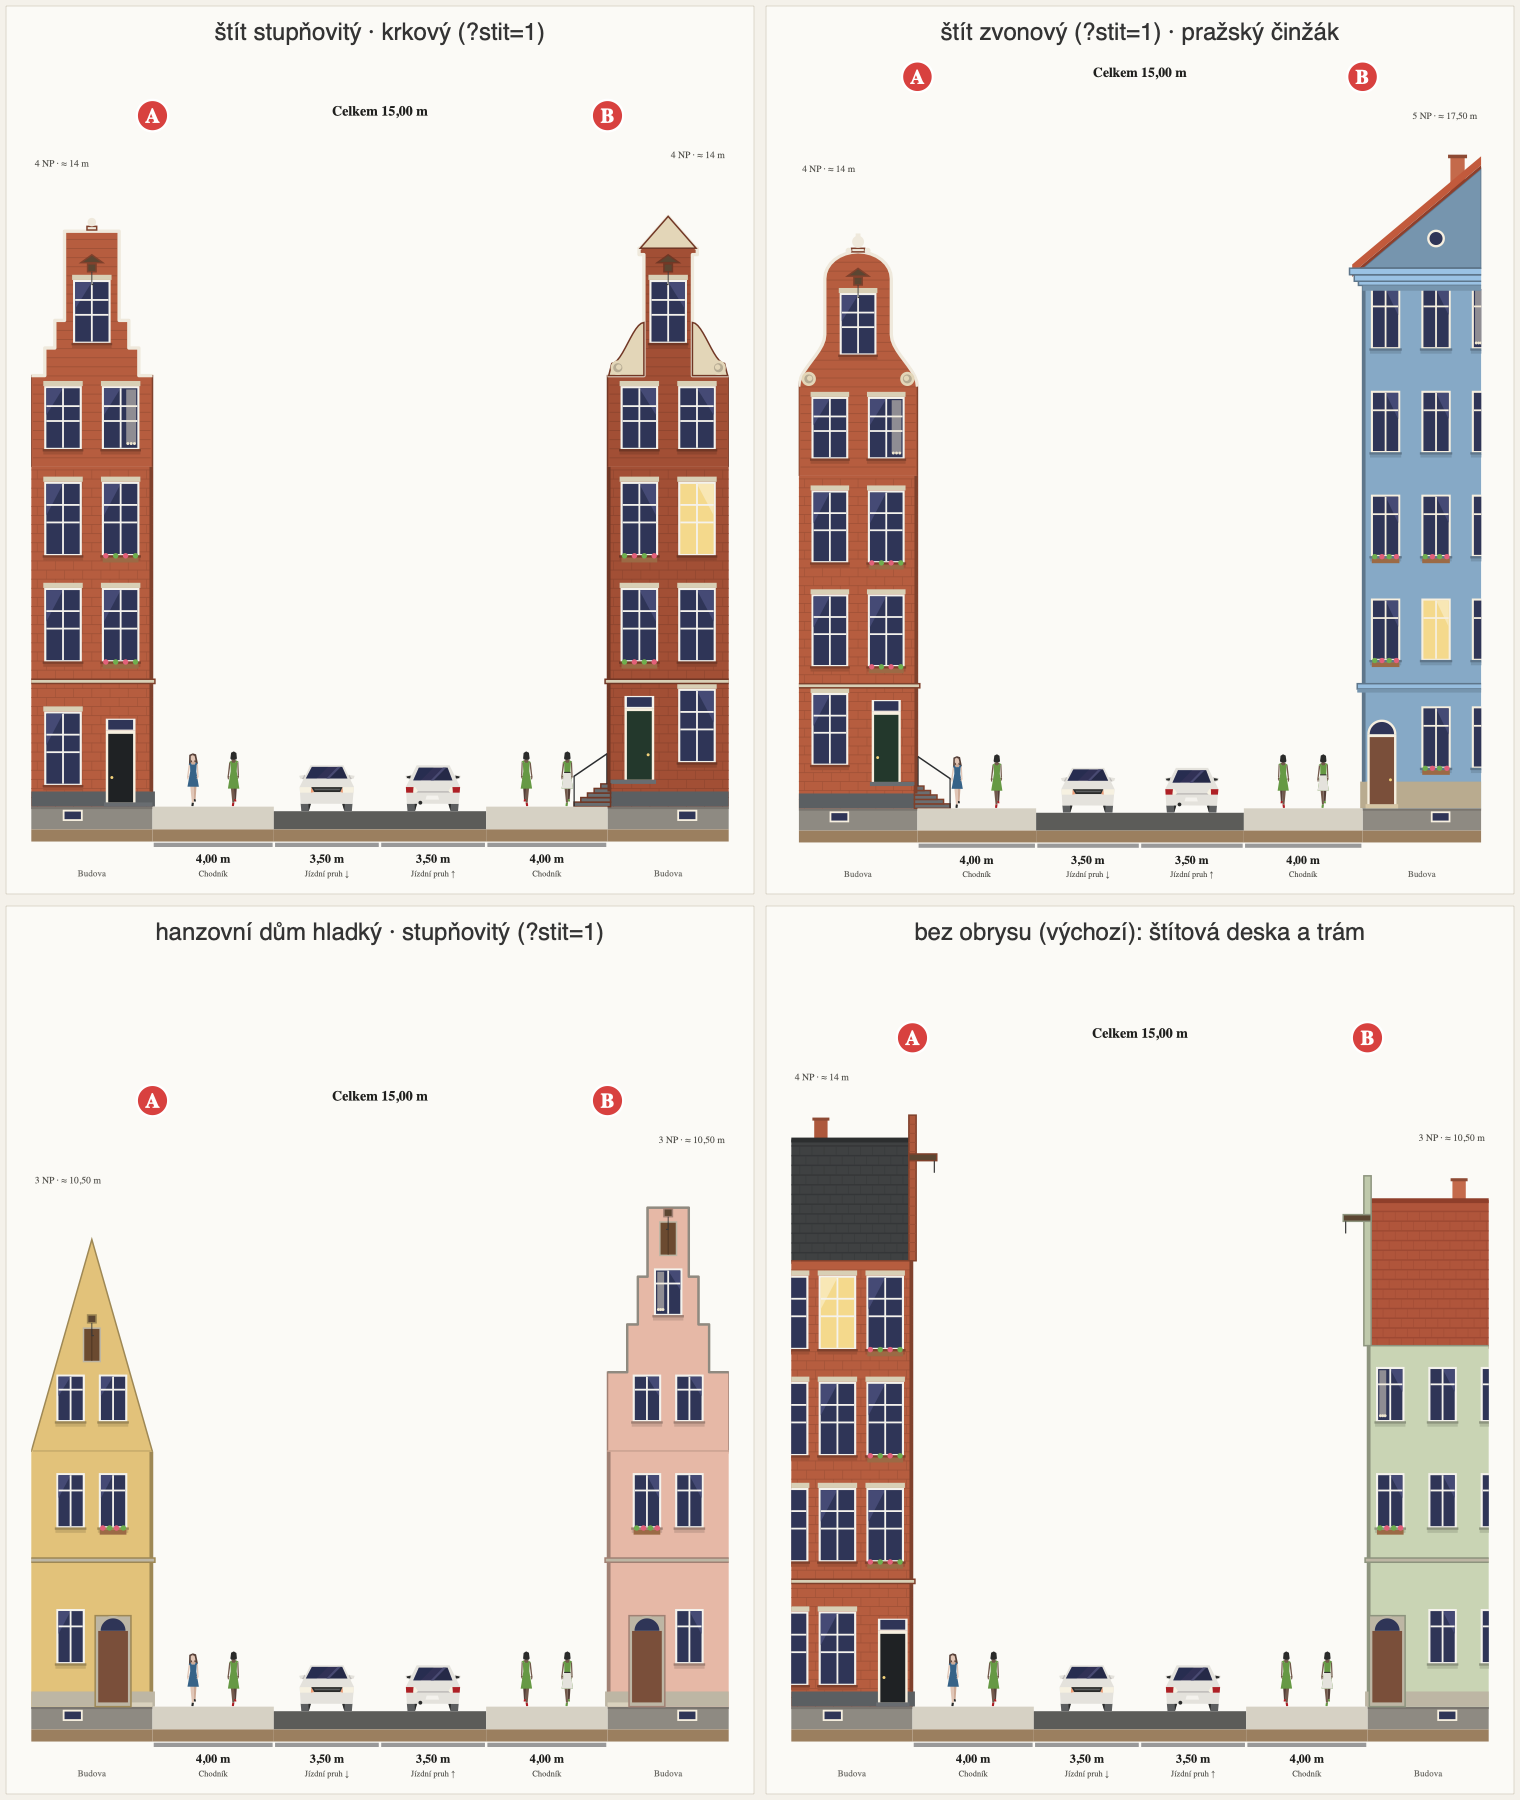
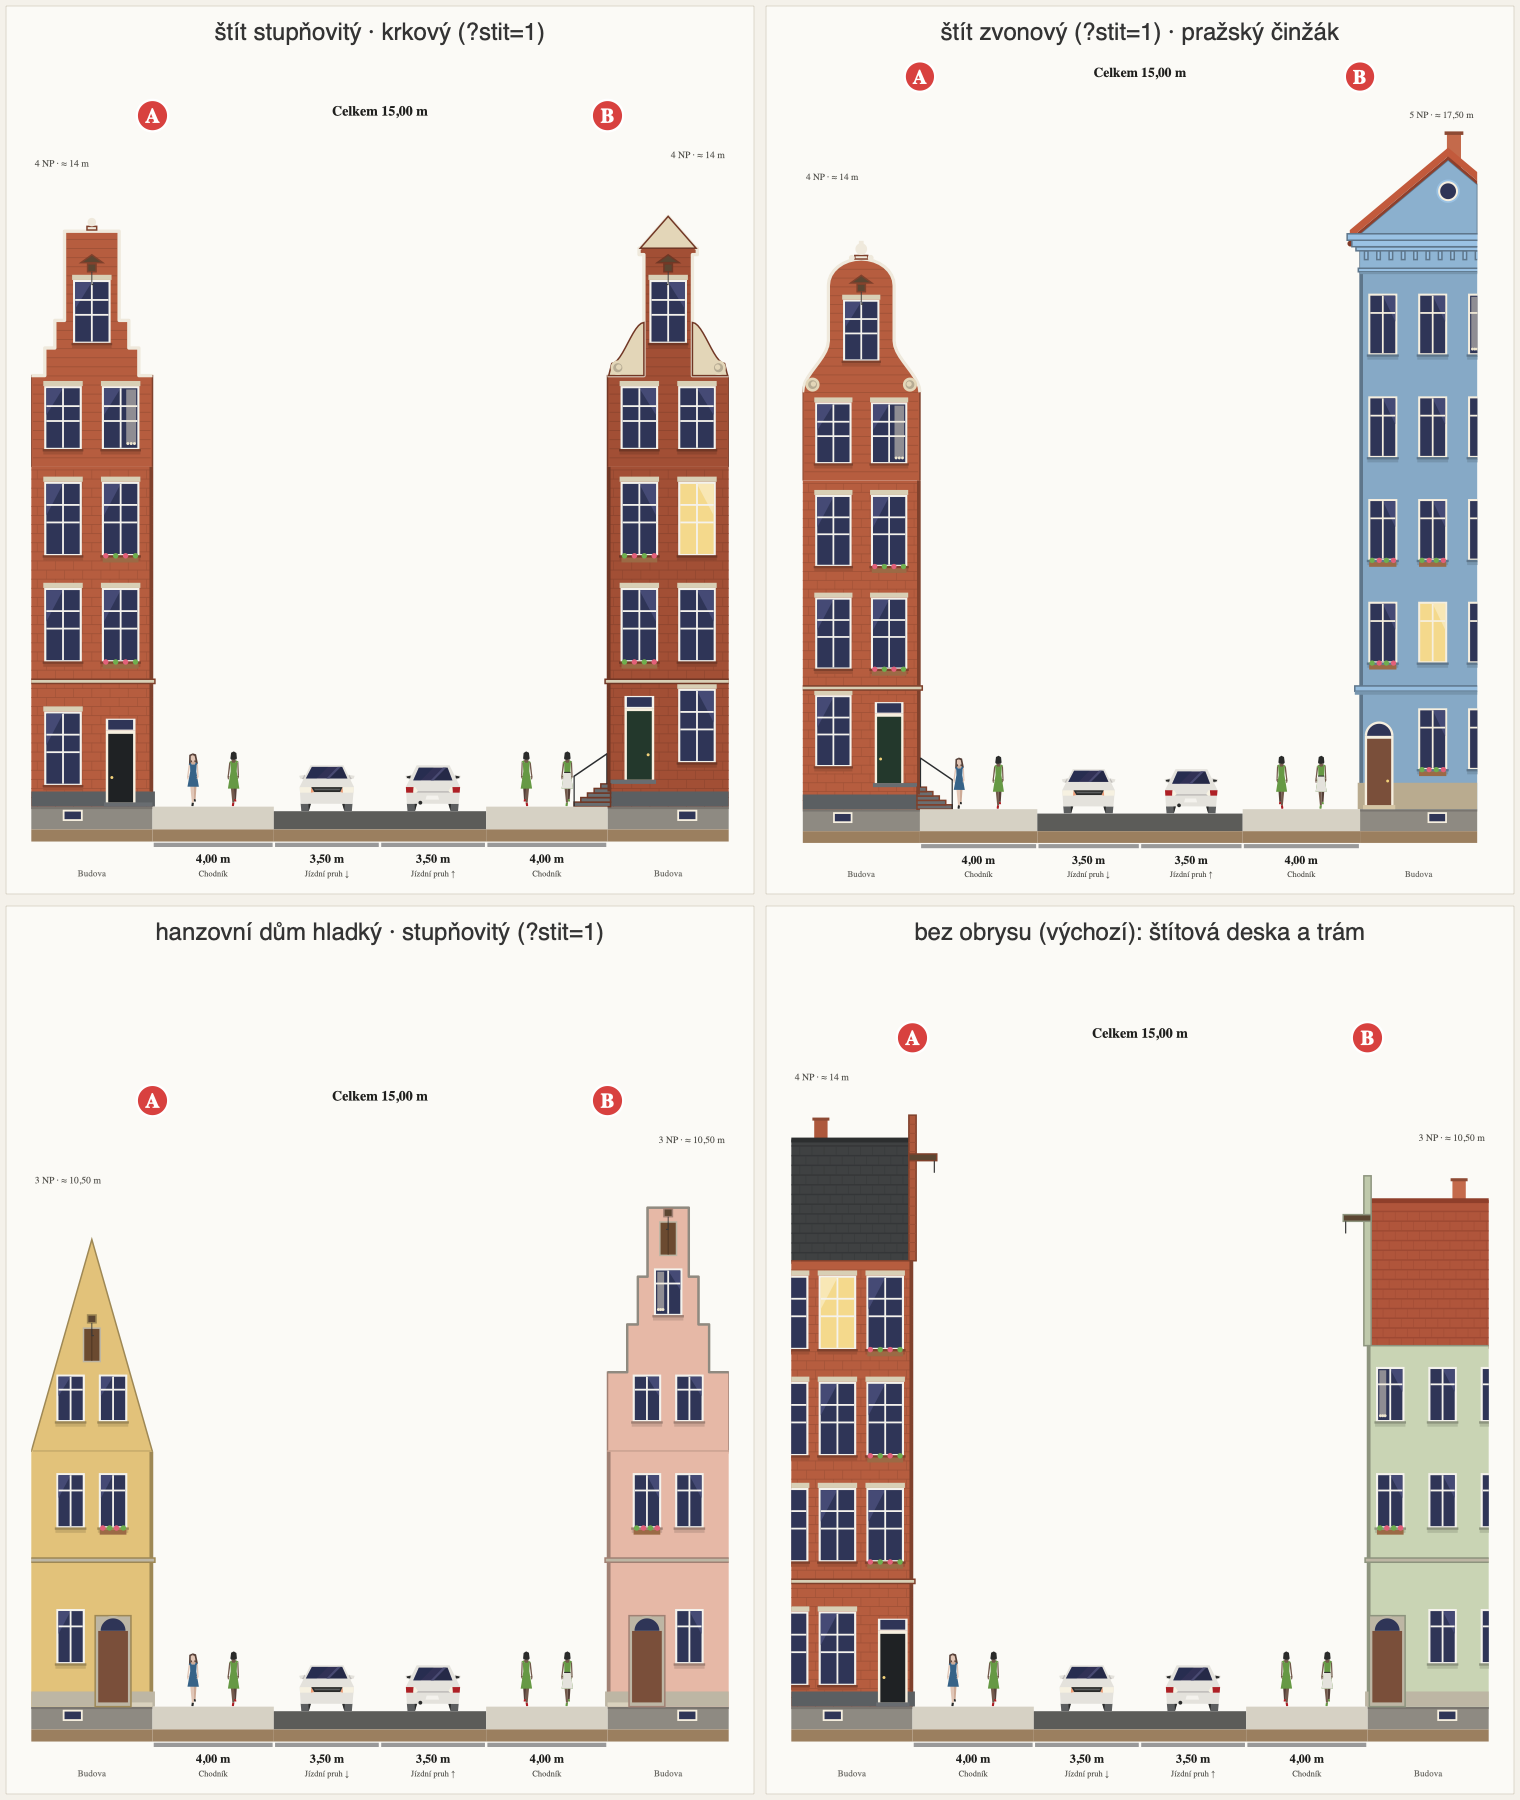
Tenements: the side gable shows its ridge 3 m from the facade with the round window under it (plastered gable, gutter), and a frieze zone under the cornice (knee wall per look, architrave, frieze and consoles on the tenement), Bára 23. 11. 2026; critic 2 rounds, sheet stit-rimsa-pred-po.png

diff --git a/pilot/public/profile.js b/pilot/public/profile.js
@@ -876,6 +876,17 @@ const GABLE_TOP = { trap: 2.3, hals: 2.38, klok: 2.4, plain: 2.0, htrap: 2.38 };
 const gableTop = (kind, info) => GABLE_TOP[kind === "hanza" && gableForm(kind, info) === "trap" ? "htrap" : gableForm(kind, info)];
 const gableOn = (kind) => !!GABLE_RISE[kind] && LOOKS.gables;
 const BARN_RISE = 380; // a village house: its roof rises this high (cm) from the eaves to the ridge (6–8 m deep house)
+// A tenement's side gable (Bára 23. 11. 2026: the round window belongs under the ridge, and the ridge must show): like the
+// gabled houses' default, the frame shows the street-side part of the gable, its ridge at TENEMENT_RIDGE (cm from the
+// street facade) and the back slope running down to the cut. Only a tenement without a mansard (its gable is plain).
+const TENEMENT_RIDGE = 300;
+const tenementGable = (kind, roofRows, flat) => (kind === "sikma" || kind === "haussmann") && !roofRows && !flat;
+// The wall between the top floor's window heads and the main cornice (Bára 23. 11. 2026: the cornice must not sit on the
+// windows): the attic's knee wall over the top floor's ceiling, added to the wall's height (cm at the look's own storey,
+// scaled with it). About 1.5 m on a Prague tenement from the window head to the cornice's underside (an architrave line,
+// the frieze, the cornice on its consoles).
+const FRIEZE = { sikma: 145, mestan: 130, sorela: 180, typovy: 25, haussmann: 75, stenstad: 115, stredomori: 45, azulejo: 45, malta: 20,
+  kypr: 20, cihlovy: 65, dansky: 80 };
 function buildingForm(info, kind) {
   const style = BASE_STYLE[kind] || kind;
   const lv = buildingLevels(info);
@@ -896,7 +907,8 @@ function buildingForm(info, kind) {
   // A "cube" family house has a raised ground floor over its half-sunk garage and cellar.
   const ground = GROUND_K[kind] ? storey * GROUND_K[kind] : kind === "sikma" ? storey * 1.2 : style === "sikma" ? storey * 1.1 : style === "funkce" ? storey * 1.15
     : kind === "plocha" ? storey + 90 : kind === "kostka" ? storey + 110 : storey;
-  const body = ground + (n - roofRows - 1) * storey;
+  const frieze = FRIEZE[kind] && !gableOn(kind) ? (FRIEZE[kind] * storey) / S : 0;
+  const body = ground + (n - roofRows - 1) * storey + frieze;
   const flat = style === "plocha" || style === "funkce" || style === "povalecny" || style === "moderni" || style === "hala" || kind === "garaz"
     || (kind === "skola" && (info?.built ?? info?.period) > 1955) || (kind === "nizky" && !pitchedLow(info))
     // Malta's houses and the south's terraces (azotea, terrazza): a flat roof behind a balustrade.
@@ -904,7 +916,7 @@ function buildingForm(info, kind) {
   const pitch = ROOF_PITCH[kind] || PITCH;
   const sawtooth = style === "hala" && ["industrial", "manufacture"].includes(info?.type) && IPR_ROOF[info?.roofType] !== "plocha";
   // A family house shows its ridge inside the 4 m strip; a tenement's ridge lies deeper, past the cut.
-  const pitched = kind === "statek" ? BARN_RISE + 40 : gableOn(kind) ? gableTop(kind, info) * storey + 90 : GABLE_RISE[kind] ? GABLE_RISE[kind] + 100 : kind === "cihlovy" ? 250
+  const pitched = kind === "statek" ? BARN_RISE + 40 : tenementGable(kind, roofRows, false) ? (TENEMENT_RIDGE + 5) * pitch + 45 : gableOn(kind) ? gableTop(kind, info) * storey + 90 : GABLE_RISE[kind] ? GABLE_RISE[kind] + 100 : kind === "cihlovy" ? 250
     : style === "nizky" || SMALL_RIDGE.has(kind) ? (RIDGE + 55) * pitch + 45 : (EDGE + 35) * pitch + 45;
   const roofH = flat ? roofRows * storey + (sawtooth ? 430 : style === "hala" ? 110 : MED_LOOKS.has(kind) ? 230 : 50) : roofRows && kind !== "statek" && !gableOn(kind) ? roofRows * storey + 170 : pitched;
   return { n, roofRows: kind === "statek" ? 0 : roofRows, storey, ground, body, roofH, flat, pitch, chimney: flat ? 0 : 70 };
@@ -1275,7 +1287,7 @@ function drawPrahaBuilding(g, x, side, surface, info, chosen) {
     const eave = { stredomori: 45, azulejo: 30, galeria: 40, kypr: 40, stenstad: 20, dansky: 30, drevak: 45, puukaupunki: 40, tallinnamaja: 45 }[kind]
       ?? (style === "nizky" ? (kind === "kostka" ? 30 : 55) : 35);
     const small = style === "nizky" || SMALL_RIDGE.has(kind);
-    const ridge = small ? RIDGE : EDGE + 200, P = f.pitch;
+    const ridge = small ? RIDGE : tenementGable(kind, f.roofRows, f.flat) ? TENEMENT_RIDGE : EDGE + 200, P = f.pitch;
     // The underside of the roof meets the wall top at the facade; the eaves reach lower, over the street.
     const z = (d) => top + 12 + Math.min(d, ridge) * P - Math.max(0, d - ridge) * P;
     // Chimney first (the roof hides its foot), then the gable up to the roof, then a thick tiled slab.
@@ -1284,7 +1296,8 @@ function drawPrahaBuilding(g, x, side, surface, info, chosen) {
       box(dc - 24, dc + 24, top, z(dc) + 100, "#c46a4b");
       box(dc - 32, dc + 32, z(dc) + 90, z(dc) + 102, "#8d4a34");
     }
-    poly([[0, top], [Math.min(ridge, EDGE), z(Math.min(ridge, EDGE)) - 12], [EDGE, z(EDGE) - 12], [EDGE, top]], ["kostka", "vila", "sorela", "typovy", "mestan", "skola", "kostel"].includes(kind) ? tint(tile[0], 1.08) : shade, outline); // a hipped roof shows its slope
+    poly([[0, top], [Math.min(ridge, EDGE), z(Math.min(ridge, EDGE)) - 12], [EDGE, z(EDGE) - 12], [EDGE, top]], ["kostka", "vila", "sorela", "typovy", "mestan", "skola", "kostel"].includes(kind) ? tint(tile[0], 1.08)
+      : tenementGable(kind, f.roofRows, f.flat) ? tint(wall, 1.04) : shade, outline); // a hipped roof shows its slope; a tenement's gable is its plastered wall
     const slab = (d0, d1) => {
       poly([[d0, z(d0)], [d1, z(d1)], [d1, z(d1) + 30], [d0, z(d0) + 30]], tile[0]);
       poly([[d0, z(d0) - 12], [d1, z(d1) - 12], [d1, z(d1)], [d0, z(d0)]], tile[1]);
@@ -1295,6 +1308,7 @@ function drawPrahaBuilding(g, x, side, surface, info, chosen) {
     if (style === "sikma" && kind !== "typovy" && kind !== "stenstad") for (const d of [-eave + 10, -eave / 2 + 2]) box(d - 5, d + 5, top - 16, z(d) - 12, ROOF.tileDark); // brackets
     else if (wood) box(-eave, -eave + 8, z(-eave) - 40, z(-eave) + 4, "#f6f4ee"); // the white fascia board
     else dot(-eave + 2, z(-eave) - 16, 10, tint(tile[1], 0.9)); // gutter
+    if (tenementGable(kind, f.roofRows, f.flat)) dot(-eave + 2, z(-eave) - 16, 10, tint(tile[1], 0.9)); // and a tenement's gutter at its eaves
     if (kind === "stenstad") {
       // A sheet roof: the standing seams' ribs on the slope, the snow guard (snöräcke) along the eaves, a roof ladder.
       for (let d = -eave + 20; d < Math.min(ridge, EDGE); d += 60) box(d - 2, d + 2, z(d) + 30, z(d) + 38, tint(tile[0], 1.5));
@@ -1355,9 +1369,11 @@ function drawPrahaBuilding(g, x, side, surface, info, chosen) {
       const ww = (WINDOWS[kind] || WINDOWS[style]).w, d0 = (125 + EDGE - 30 - ww) / 2;
       window(d0, top + 50, ww, Math.min(95, Math.min(z(d0 - 10), z(d0 + ww + 10)) - 12 - top - 60 - 10), 1);
     } else {
-      const dc = (125 + EDGE - 30) / 2; // a round window in the gable in the back column, well under the roof
-      dot(dc, top + 100, 30, FRAME);
-      dot(dc, top + 100, 22, GLASS);
+      // The round window (volské oko) in the middle of the gable, under its ridge (Bára 23. 11. 2026).
+      const dc = ridge, zc = top + (z(ridge) - top) * 0.55;
+      dot(dc, zc, 40, tint(wall, 1.15)); // its plaster surround
+      dot(dc, zc, 34, FRAME);
+      dot(dc, zc, 27, GLASS);
     }
   }
 
@@ -1970,6 +1986,7 @@ function drawPrahaBuilding(g, x, side, surface, info, chosen) {
     box(-20, EDGE, f.ground - 22, f.ground, tint(STONE, 1.05), outline);
     const corn = tint(wall, 1.15);
     box(0, EDGE, top - 90, top - 62, tint(wall, 0.94)); // the frieze
+    box(-4, EDGE, top - 124, top - 114, corn, outline); // its architrave line
     box(-12, EDGE, top - 62, top - 48, corn, outline);
     box(-30, EDGE, top - 48, top - 26, corn, outline);
     box(-52, EDGE, top - 26, top, corn, outline);
@@ -1981,10 +1998,17 @@ function drawPrahaBuilding(g, x, side, surface, info, chosen) {
     box(-18, EDGE, f.ground - 30, f.ground - 18, shade);
     // Main cornice in three steps, the wall's colour lightened, with its shadow on the wall.
     const corn = tint(wall, 1.15);
+    if (kind === "sikma" || kind === "mestan") {
+      // Under the cornice the frieze, a shade lighter, over an architrave line; consoles carry the cornice.
+      const zf = top - 58 - Math.min(60, f.storey * 0.17);
+      box(0, EDGE, zf, top - 58, tint(wall, 1.07));
+      box(-6, EDGE, zf - 12, zf, corn, outline);
+      box(0, EDGE, zf - 20, zf - 12, shade);
+      for (let d = 15; d < EDGE; d += 42) box(d, d + 12, top - 88, top - 58, corn, outline);
+    } else box(0, EDGE, top - 76, top - 58, shade);
     box(-14, EDGE, top - 58, top - 44, corn, outline);
     box(-28, EDGE, top - 44, top - 22, corn, outline);
     box(-44, EDGE, top - 22, top, corn, outline);
-    box(0, EDGE, top - 76, top - 58, shade);
   } else if (style === "moderni") {
     for (let k = 1; k < full; k++) { // balconies: a thin white slab, a frameless glass balustrade
       const z = floorZ(k);

diff --git a/evaluation/budovy-cz-okna/ZPRAVA.md b/evaluation/budovy-cz-okna/ZPRAVA.md
@@ -39,3 +39,40 @@ bez něj, regionální vzhledy s mansardou (haussmannovský, severský činžák
   činžákový štít); HEAD padal v 50 případech (škola s ustoupeným podlažím), teď v žádném.
 - `npm test` (čistá kopie HEAD + `profile.js`): 377/377, žádný test se neměnil (testy SVG domů nefotí).
 - `node evaluation/ortofoto-osm/regrese.mjs` před a po: shodné (kresba domů do odhadu nezasahuje).
+
+## Štít činžáku a mezera pod římsou (Bára 23. 11. 2026)
+
+Bára: volské oko patří doprostřed štítu pod sedlo, ale sedlo nebylo vidět (střecha jen stoupala z rámu); a římsa
+sedí moc blízko horních oken.
+
+- **Štít se sedlem** (`profile.js` `TENEMENT_RIDGE`, `tenementGable`): činžák bez mansardy (a haussmannovský dům o 1–2
+  podlažích, který ho kreslí) má hřeben 3 m od uliční fasády, za ním krátký zadní svah k řezu: jako výchozí štít
+  štítových domů ukazuje rám uliční dvě třetiny štítu. Sklon dál 40°. Štít je omítnutá zeď (o odstín světlejší než stěna,
+  ne tmavá jako plocha střechy), u okapu žlab. Volské oko pod hřebenem (v ose sedla), v 55 % výšky štítu, průměr asi
+  0,7 m se světlou omítkovou šambránou. Výška domu: střecha je o 1 m nižší (hřeben ve 3 m místo za řezem), popisek
+  podlaží a výšky se nemění (bere se z dat / počtu podlaží, ne z kresby).
+- **Pás pod římsou** (`FRIEZE`): nad stropem nejvyššího podlaží nadezdívka (v cm při typickém podlaží vzhledu, škáluje se
+  s ním), přičtená k výšce zdi: činžák 145, měšťanský dům 130, sorela 180, zděný dům 50.–60. let 25, haussmannovský 75,
+  severský činžák 115, dánský 80, amsterdamský 65, středomořské 20–45. Od hlavy horního okna k podhledu římsy u činžáku
+  asi 1,5 m. Činžák a měšťanský dům mají v pásu architrávovou linku, vlys o odstín světlejší a konzoly pod římsou po 42 cm;
+  sorela linku pod vlysem. Štítové domy (`stit`, `hanza` se štítem) nadezdívku nemají (štít stojí na zdi).
+- Sloupce oken, řez rámem, počty a výšky podlaží beze změny.
+
+Snímek `stit-rimsa-pred-po.png` (vlevo HEAD, vpravo po změně):
+`SHEET=stit-rimsa node evaluation/budovy-cz-okna/render.mjs <kořen před> . evaluation/budovy-cz-okna/stit-rimsa-pred-po.png`.
+Referenční fotky (Wikimedia Commons): pražské štíty a římsy (Kategorie Gables in Prague), štítové zdi činžáků
+(Brandwand Quedlinburg 2024, Berlín-Schöneberg 1986, Budapešť).
+
+### Kritik (nezávislý agent, jen obrázky a fotky)
+
+1. kolo (po prvním návrhu: sedlo ve 3 m, oko pod ním, nadezdívka bez výzdoby): nic vážného na štítu; střední: pás pod
+   římsou příliš prostý a nízký (zvednout o 0,3–0,4 m, vlys, architráv, konzoly), sorela okna skoro u římsy; drobné: štít
+   tmavý jako střecha (má být omítka), oko malé, jen jeden komín. Mimo zadání (zapsáno, neřešeno): vikýře kreslené čelně
+   v dánském domě, amsterdamská střecha jako krabice, zinková strana haussmannovské mansardy, severský a středomořský dům
+   bez hřebene. → zvýšená nadezdívka, vlys s architrávem a konzolami, světlejší štít, větší oko se šambránou.
+2. kolo: **nic vážného**; štít čitelný, oko správně pod hřebenem, mezera 1,5 m „odpovídá pražským činžákům“. Drobné:
+   okap končí bez žlabu (→ doplněn), konzoly řídké a ploché (→ hustší, vyšší); nepřevzato: klenáky kolem oka, nároží
+   štítu bez římsy, římsa haussmannovského a středomořského domu bez modilionů; střední mimo zadání: dánský štít s čelním
+   vikýřem.
+
+Testy: `node --test tests/house-looks.test.js tests/buildings.test.js` 30/30, `npm test` 384/384.
